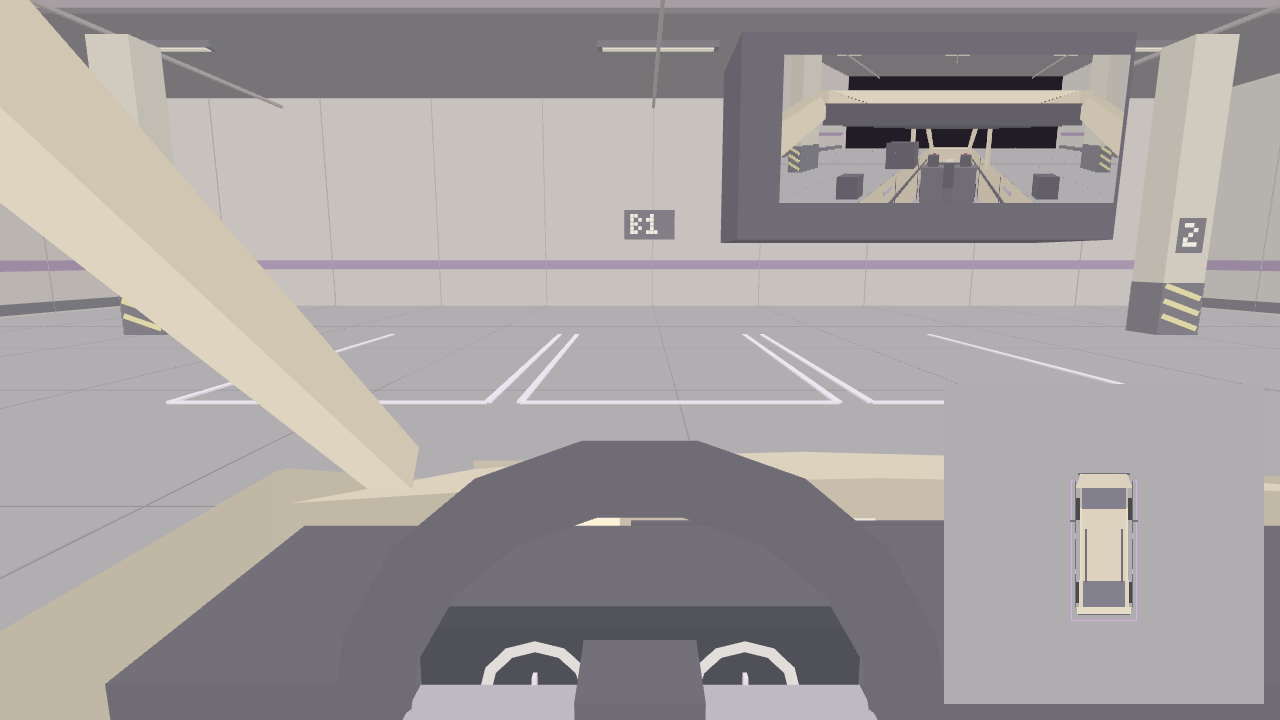
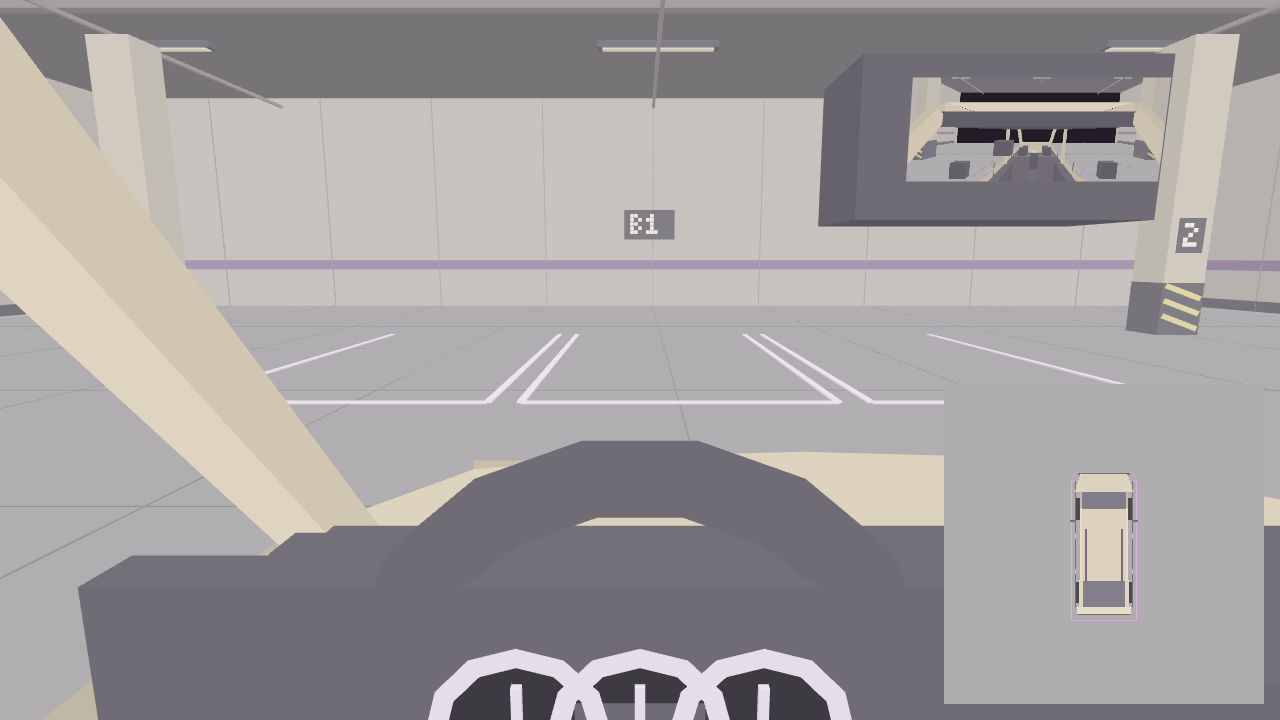
docs: refresh redesigned vehicle asset catalog

diff --git a/docs/phase-8-asset-catalog.md b/docs/phase-8-asset-catalog.md
@@ -1,22 +1,23 @@
 # Phase 8 Original 3D Asset Catalog
 
-Captured and measured: 2026-11-05. These are actual GLTFLoader/WebGL renders,
+Captured and measured: 2026-11-06. These are actual GLTFLoader/WebGL renders,
 not the earlier concept drawings. Artwork uses shaped low-poly geometry,
 vertex colors and unlit materials; there are no image textures, downloaded
 meshes, dynamic shadows or custom shaders.
 
 ## Vehicles
 
-The amethyst sedan has a low three-box body, rounded hood and separate angular
-trunk. The ivory/charcoal CUV has a taller cabin, roof rails, wheel-arch cladding,
-an upright hatch and vertical rear lamps. Both include handles, door seams,
-grilles, bumpers, static lamp colors, mirror housings and independently animated
-alloy wheels. Designs are generic and unbranded.
+The amethyst sedan has a low three-box body, a longer rounded hood and a
+distinct shorter angular trunk. The ivory/charcoal CUV has a taller cabin, roof
+rails, wheel-arch cladding, an upright hatch and vertical rear lamps. Both
+include handles, door seams, grilles, bumpers, static lamp colors, mirror
+housings and independently animated alloy wheels. Designs are generic and
+unbranded.
 
 | Asset | Width x height x length (m) | Stored triangles | Nodes / meshes | GLB bytes |
 |---|---|---:|---:|---:|
-| [Sedan](../public/assets/vehicles/sedan.glb) | 1.8 x 1.45 x 4.6 | 2,854 | 30 / 21 | 200,548 |
-| [CUV](../public/assets/vehicles/cuv.glb) | 1.8 x 1.62 x 4.35 | 2,970 | 30 / 21 | 209,464 |
+| [Sedan](../public/assets/vehicles/sedan.glb) | 1.8 x 1.45 x 4.6 | 3,204 | 36 / 27 | 230,500 |
+| [CUV](../public/assets/vehicles/cuv.glb) | 1.8 x 1.62 x 4.35 | 3,330 | 35 / 26 | 239,288 |
 
 Counts include the cockpit, mirror surfaces and both stored glazing variants,
 even when one is hidden. Both are below the 10,000-triangle vehicle gate.
@@ -35,10 +36,11 @@ even when one is hidden. Both are below the 10,000-triangle vehicle gate.
 
 ### Cockpits and mirrors
 
-Both cockpits contain a dashboard, simple instrument rings/needles, steering
-wheel with spokes/hub, front seats/headrests, rear-seat silhouette, console,
-floor and roof lining. Captures look slightly downward to show controls;
-application camera controls and default poses are unchanged.
+Both cockpits contain a dashboard, static instrument dials/needles and indicator
+lamps, pedals, a center console/storage, door panels, floor, roof lining,
+front seats/headrests and a rear seat. Updated driver-view captures show the
+dials through the steering-wheel opening; application camera controls and
+default poses are unchanged.
 
 ![Sedan cockpit with controls and working rearview RenderTarget](images/phase-8/sedan-cockpit.png)
 
@@ -58,10 +60,11 @@ The physical profiles, eye anchors and mirror-camera anchors are unchanged:
 | CUV | 0.62 | (-0.36, 0.68, -0.8462) | (0, 0.80, -1.5962) | (+/-0.965, 0.48, -0.7462) |
 
 Mirror anchor yaw remains rear 180 degrees, left +105 degrees and right
--105 degrees. The smaller rearview **display mesh** is placed inside the
-cabin, offset from its unchanged virtual camera by (-0.25, -0.075, +0.52) m.
-It is a view proxy, not a newly calibrated optical mirror. Planar mirror
-surfaces now have UVs; updates retain the existing 15 FPS cap.
+-105 degrees. The smaller 0.09 x 0.035 m rearview **display mesh** is placed
+inside the cabin, offset from its unchanged virtual camera by
+(-0.22, -0.075, +0.52) m. It is a view proxy, not a newly calibrated optical
+mirror. Planar mirror surfaces now have UVs; updates retain the existing 15 FPS
+cap.
 Side housings sit behind their reflective planes relative to the driver.
 Loaded-mesh 9 x 9 ray grids verify both side faces are unobstructed from
 each fixed eye; this does not establish optical calibration.
@@ -130,10 +133,10 @@ All GLBs are self-contained and use no external image/buffer resources.
 
 | Selected pair | Uncompressed bytes |
 |---|---:|
-| Sedan + garage | 383,172 |
-| Sedan + roadside | 363,344 |
-| CUV + garage | 392,088 |
-| CUV + roadside | 372,260 |
+| Sedan + garage | 413,124 |
+| Sedan + roadside | 393,296 |
+| CUV + garage | 421,912 |
+| CUV + roadside | 402,084 |
 
 All pairs are below the 5,000,000-byte gate.
 
@@ -144,15 +147,15 @@ The table reports an auxiliary-update frame at 80 ms:
 
 | Scene | Main calls / triangles | Three mirror calls | Overhead calls | Composite calls | Full-frame calls |
 |---|---:|---|---:|---:|---:|
-| Sedan + garage | 26 / 3,218 | 27 + 16 + 16 | 31 | 1 | 117 |
-| Sedan + roadside | 22 / 3,038 | 25 + 16 + 16 | 31 | 1 | 111 |
-| CUV + garage | 26 / 3,334 | 27 + 16 + 16 | 31 | 1 | 117 |
-| CUV + roadside | 22 / 3,154 | 25 + 16 + 16 | 31 | 1 | 111 |
-| Stage 1, CUV | 57 / 7,970 | 27 + 18 + 18 | 31 | 1 | 152 |
-| Stage 2, CUV | 22 / 3,170 | 62 + 18 + 18 | 31 | 1 | 152 |
-| Stage 3, CUV | 32 / 4,226 | 45 + 17 + 26 | 48 | 1 | 169 |
-| Stage 4, CUV | 23 / 3,182 | 47 + 18 + 21 | 32 | 1 | 142 |
-| Stage 5, CUV | 26 / 3,274 | 43 + 17 + 26 | 47 | 1 | 160 |
+| Sedan + garage | 30 / 3,518 | 32 + 18 + 18 | 37 | 1 | 136 |
+| Sedan + roadside | 26 / 3,338 | 30 + 18 + 18 | 37 | 1 | 130 |
+| CUV + garage | 30 / 3,646 | 31 + 18 + 18 | 36 | 1 | 134 |
+| CUV + roadside | 26 / 3,466 | 29 + 18 + 18 | 36 | 1 | 128 |
+| Stage 1, CUV | 61 / 8,282 | 31 + 20 + 20 | 36 | 1 | 169 |
+| Stage 2, CUV | 26 / 3,482 | 66 + 20 + 20 | 36 | 1 | 169 |
+| Stage 3, CUV | 36 / 4,538 | 49 + 19 + 28 | 53 | 1 | 186 |
+| Stage 4, CUV | 27 / 3,494 | 51 + 20 + 23 | 37 | 1 | 159 |
+| Stage 5, CUV | 29 / 3,578 | 47 + 19 + 28 | 52 | 1 | 176 |
 
 The gates are <=100 **main-pass** calls in sandbox and <=140 in lessons,
 not limits on the sum of all camera passes. These sampled poses pass; their
@@ -176,12 +179,10 @@ part of the production app. See [asset pipeline](asset-pipeline.md).
 
 ## Verification limits
 
-Final software checks passed: 487 unit/DOM/physics/asset tests, 37 explicitly
-selected generator/loader checks, typecheck, production build, 40 Chromium
-browser checks (including both five-stage journeys) and five production
-checks. The explicit asset selection overlaps the ordinary suite; these
-numbers are not additive. No lint script exists. The existing bundle-size
-warning remains.
+For the Issue #12 redesign, 49 focused generator/loader tests and all 10
+Chromium Phase 8 asset-render cases passed, including the five parked-lesson
+scenes. Project-wide tests, typecheck, build and production-browser results
+are recorded in the Issue #12 change record. No lint script exists.
 
 The branch includes the current Phase 7 learner experience. Its app captures
 follow the real tutorial/menu/settings/briefing flow rather than bypassing it.
